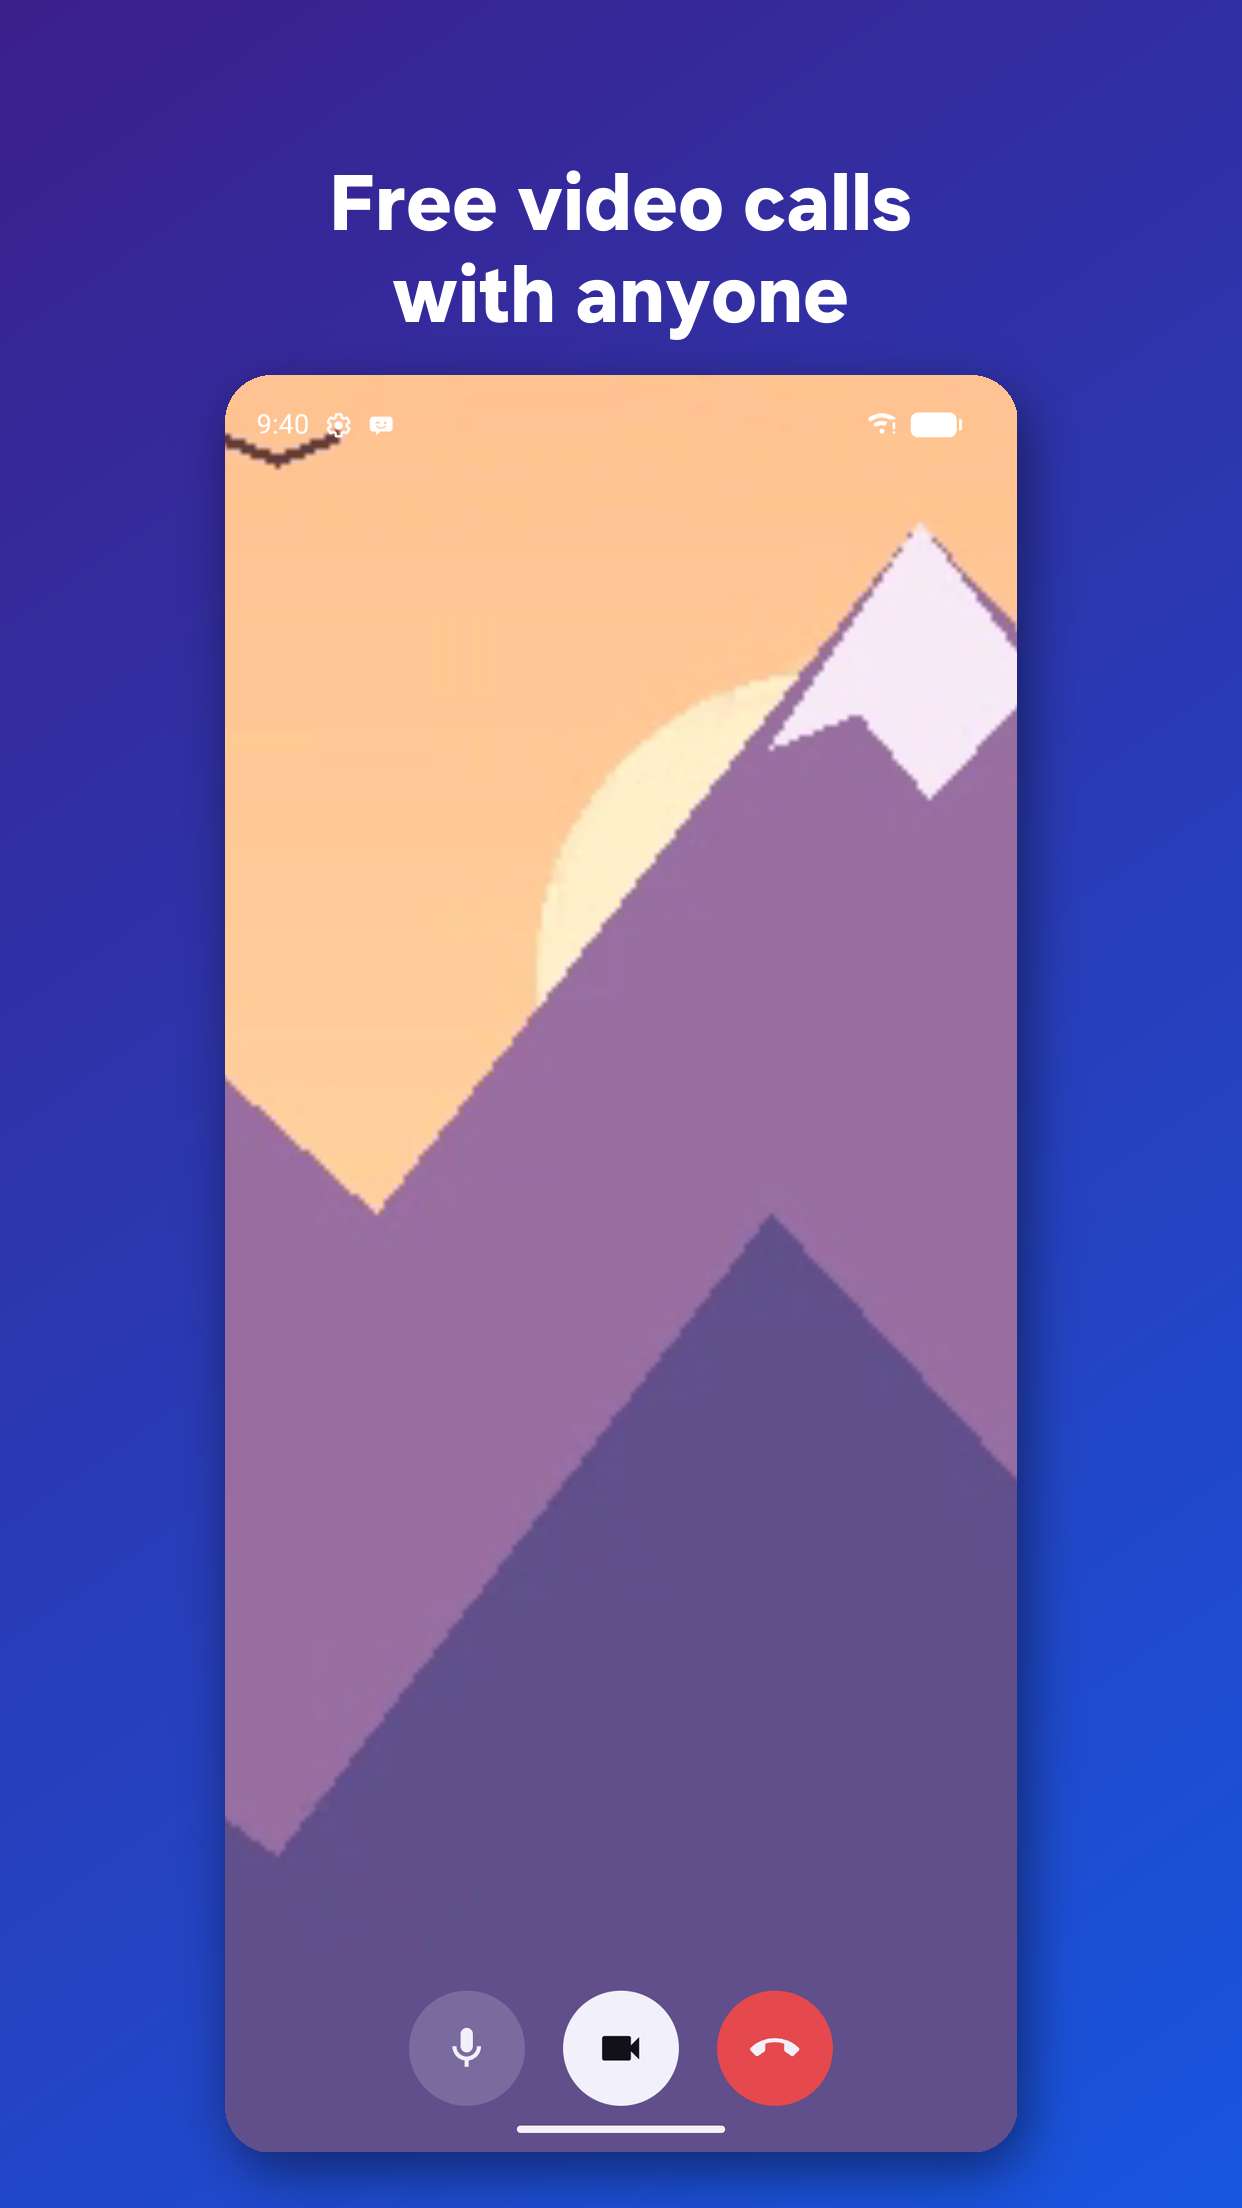
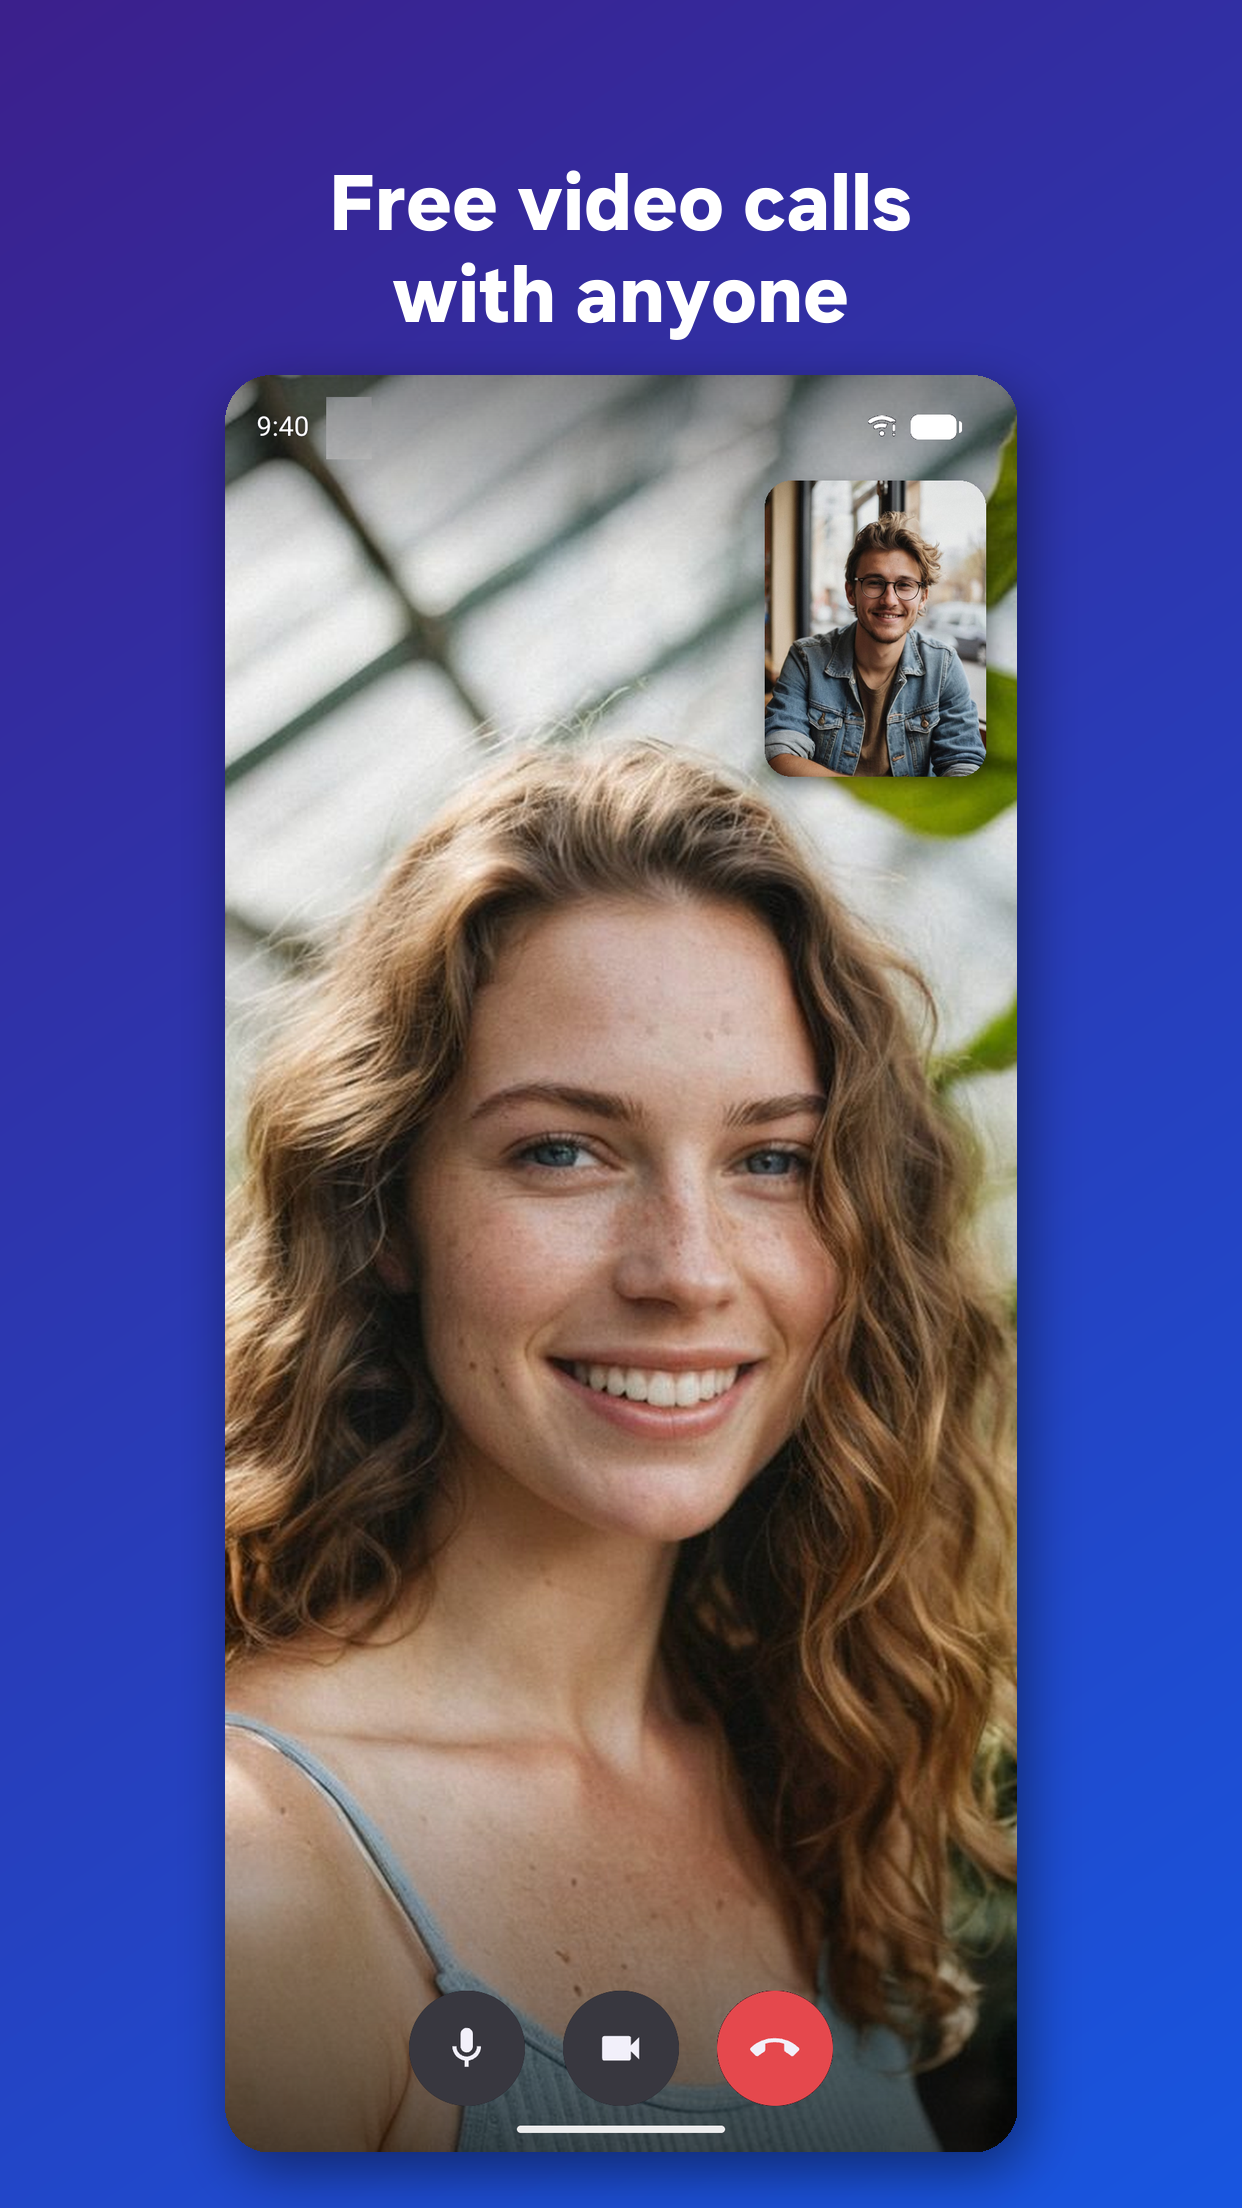
Play listing: localized screenshots and landscape promo video for all 12 languages
Claude-Session: https://claude.ai/code/session_01XKbQfCpP3Su3FXggznmBoN

diff --git a/PLAY_RELEASE_TODO.md b/PLAY_RELEASE_TODO.md
@@ -116,5 +116,4 @@ One-time setup (done 2026-11-06; project howyoudoin-513908, play-publisher@howyo
       hi-IN, id, ja-JP); 7 phone screenshots per language, captured in demo mode with the app in that language
       (scripts in ~/StudioProjects/GooglePlay/HowYouDoin/.scripts: frame_demo.py, frame_pl.py, frame_lang.py; the
       video call screen uses two generated people from Matchamore). The Premium shot with the removed top-up is gone.
-- [ ] Promo video: new landscape versions (video/howyoudoin_promo_landscape_en.mp4, _pl.mp4; the portrait one got
-      its captions cropped in Play's 16:9 frame) need uploading to YouTube (unlisted), then set per language.
+- [x] Promo video 2026-11-12: landscape (16:9) video per language, unlisted on YouTube, set for all 12 listings
